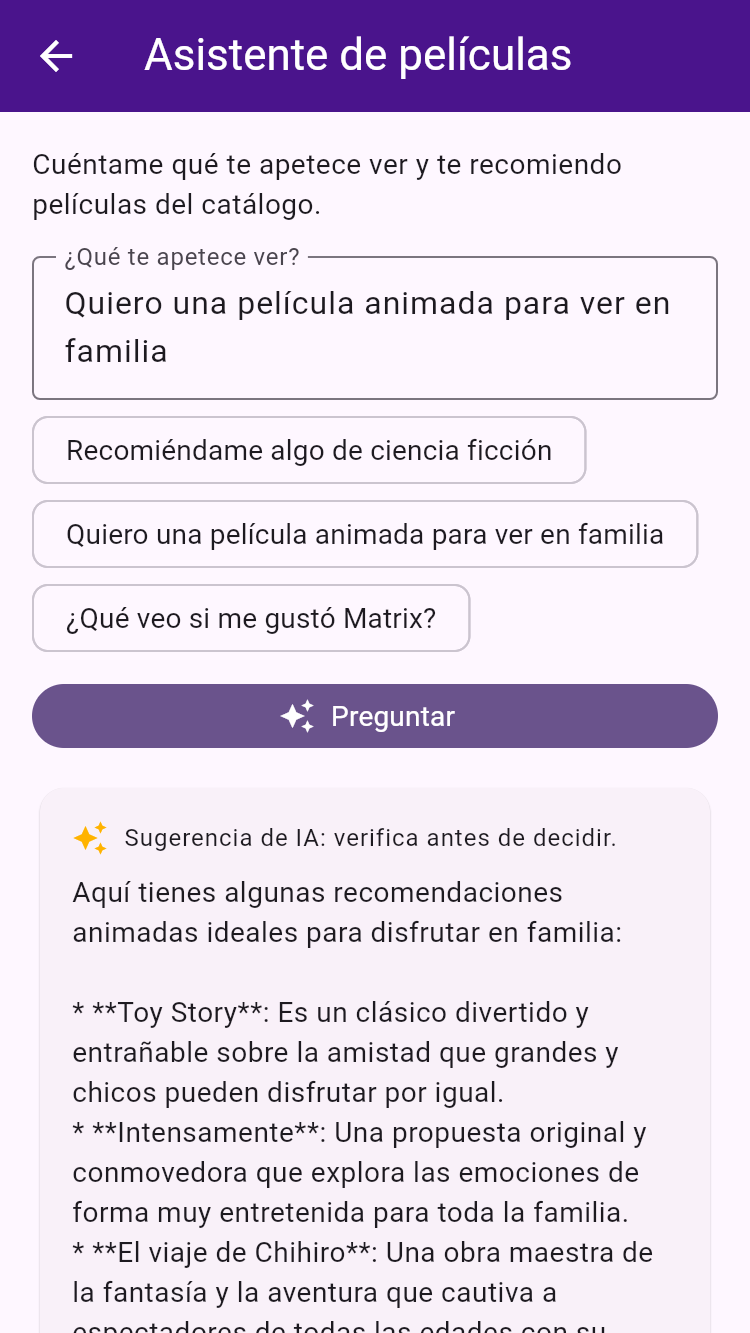
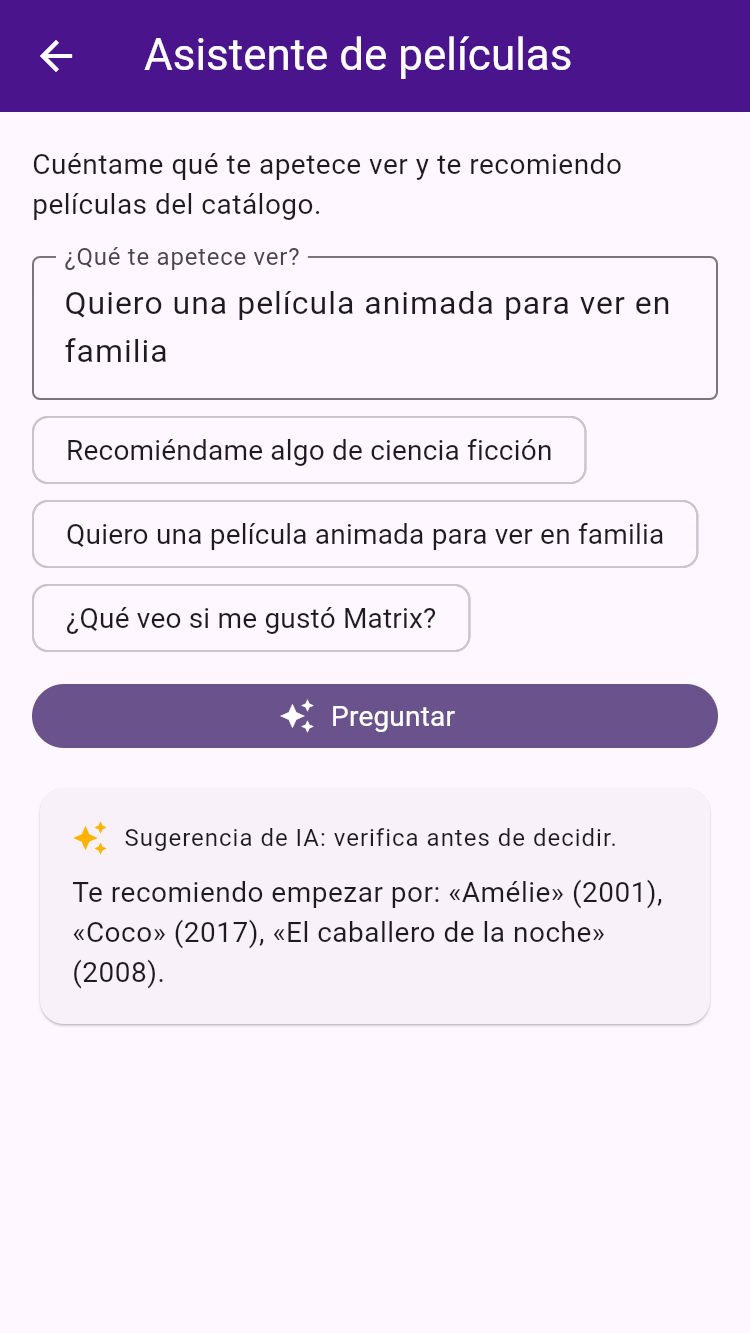
Modo reglas: reconocer variantes de género y nueva captura del asistente

Changed region(s): [[0.092, 0.6459, 0.8587, 1.0]]

diff --git a/servidor-ia/servidor.js b/servidor-ia/servidor.js
@@ -75,17 +75,39 @@ function resumirConReglas({ pelicula, resenas }) {
     `${positivas} opinión(es) positiva(s) y ${negativas} negativa(s).`;
 }
 
+// Palabras que la gente usa para pedir cada género (sin tildes, en minúsculas).
+const PALABRAS_POR_GENERO = {
+  'animación': ['anima', 'dibujo', 'familia', 'ninos', 'infantil'],
+  'ciencia ficción': ['ciencia', 'ficcion', 'espacio', 'futur', 'robot', 'matrix'],
+  'terror': ['terror', 'miedo', 'susto', 'horror'],
+  'comedia': ['comedia', 'risa', 'reir', 'divertid', 'gracios'],
+  'romance': ['romance', 'romant', 'amor', 'pareja'],
+  'acción': ['accion', 'pelea', 'explosi'],
+  'suspenso': ['suspenso', 'thriller', 'misterio', 'intriga'],
+  'fantasía': ['fantasia', 'magia', 'magic'],
+  'drama': ['drama', 'llorar', 'emotiv', 'conmovedor'],
+  'aventura': ['aventura', 'dinosaur'],
+  'crimen': ['crimen', 'mafia', 'gangster'],
+};
+
+const sinTildes = (s) => s.normalize('NFD').replace(/[̀-ͯ]/g, '').toLowerCase();
+
 function recomendarConReglas({ consulta, catalogo, porVer }) {
-  const texto = (consulta || '').toLowerCase();
+  const texto = sinTildes(consulta || '');
   const enLista = new Set(porVer.map((p) => p.titulo));
   const generos = [...new Set(catalogo.map((p) => p.genero))];
-  let genero = generos.find((g) => texto.includes(g));
+  let genero = generos.find((g) => texto.includes(sinTildes(g)))
+    ?? generos.find((g) => (PALABRAS_POR_GENERO[g] ?? []).some((palabra) => texto.includes(palabra)));
   if (!genero && porVer.length) {
     const cuenta = {};
     for (const p of porVer) cuenta[p.genero] = (cuenta[p.genero] || 0) + 1;
     genero = Object.entries(cuenta).sort((a, b) => b[1] - a[1])[0][0];
   }
-  const candidatas = catalogo.filter((p) => !enLista.has(p.titulo) && (!genero || p.genero === genero)).slice(0, 3);
+  // No se recomienda lo que ya está en su lista ni la película que nombró en la pregunta.
+  const candidatas = catalogo
+    .filter((p) => !enLista.has(p.titulo) && !texto.includes(sinTildes(p.titulo)))
+    .filter((p) => !genero || p.genero === genero)
+    .slice(0, 3);
   if (!candidatas.length) return 'No encontré películas nuevas para recomendarte con esos datos. Prueba con otro género.';
   const lista = candidatas.map((p) => `«${p.titulo}» (${p.anio})`).join(', ');
   return genero ? `Si te gusta ${genero}, te recomiendo: ${lista}.` : `Te recomiendo empezar por: ${lista}.`;
